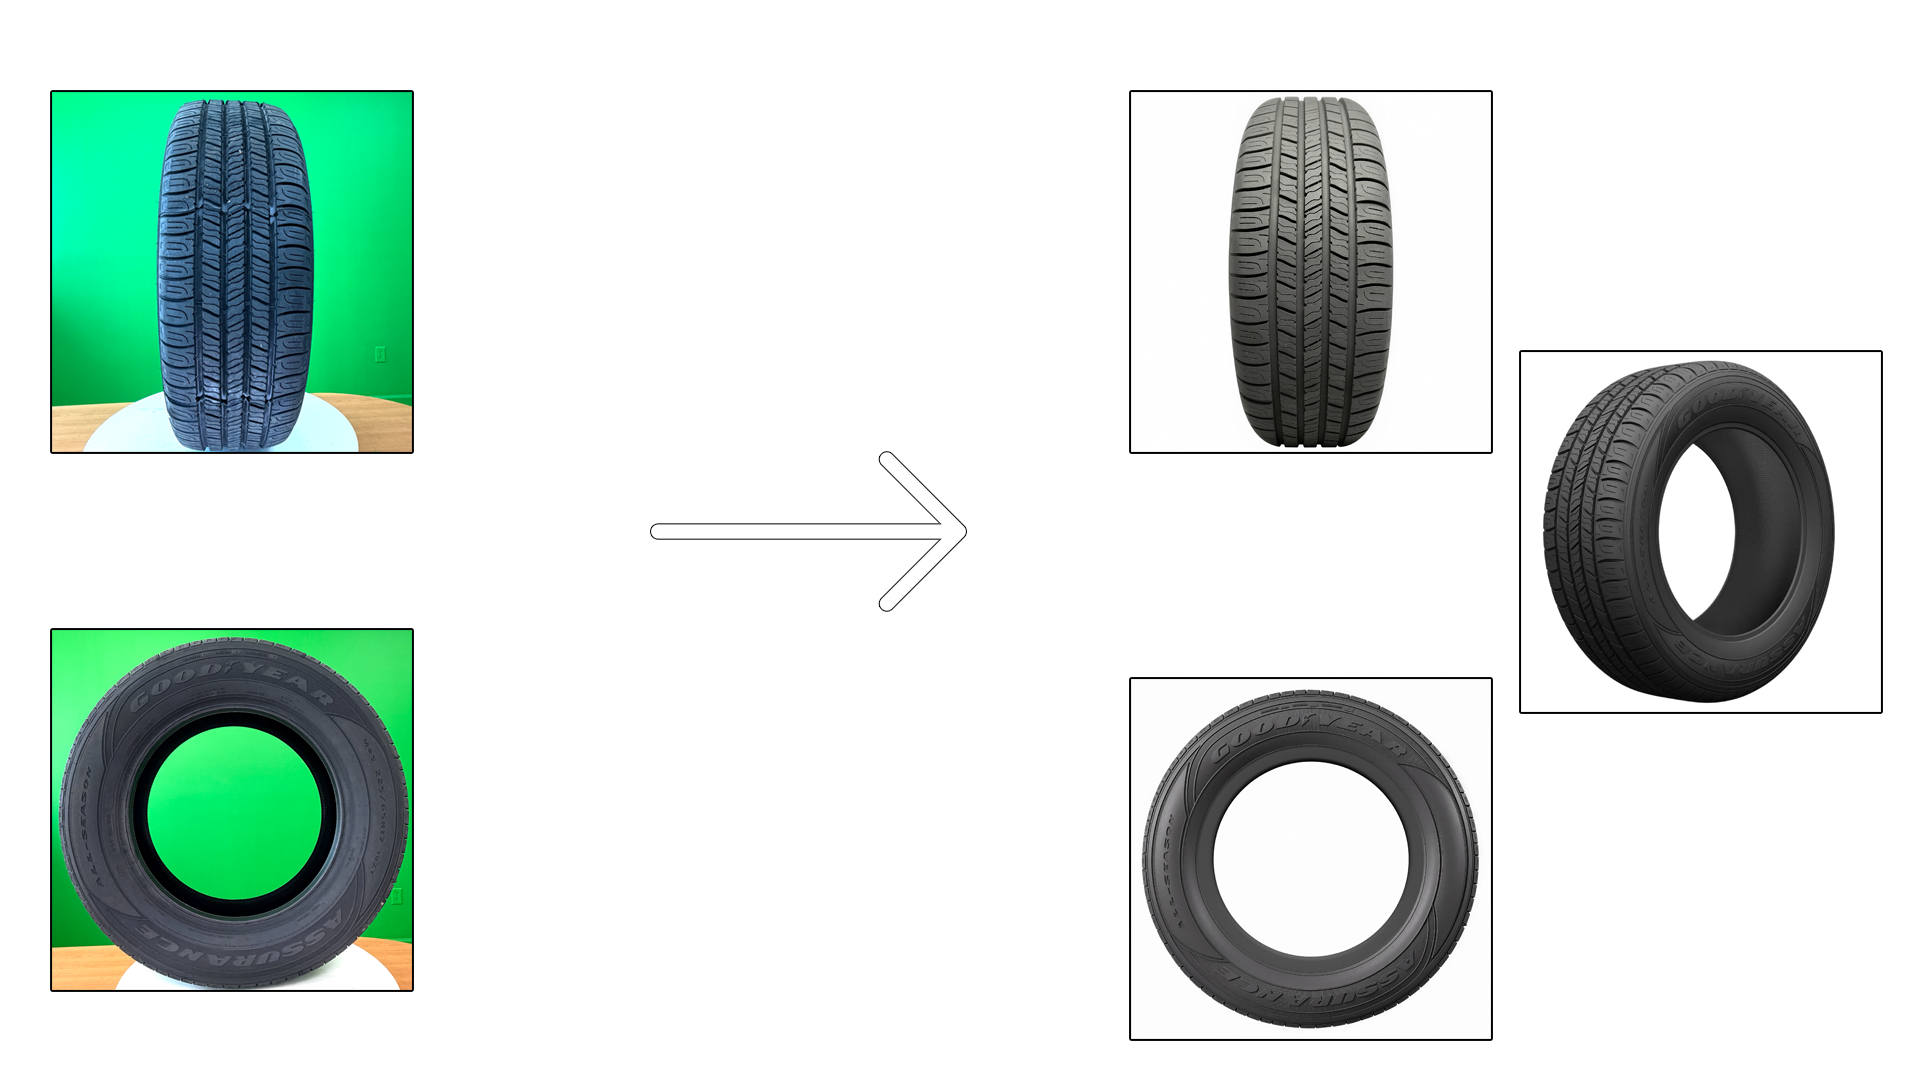
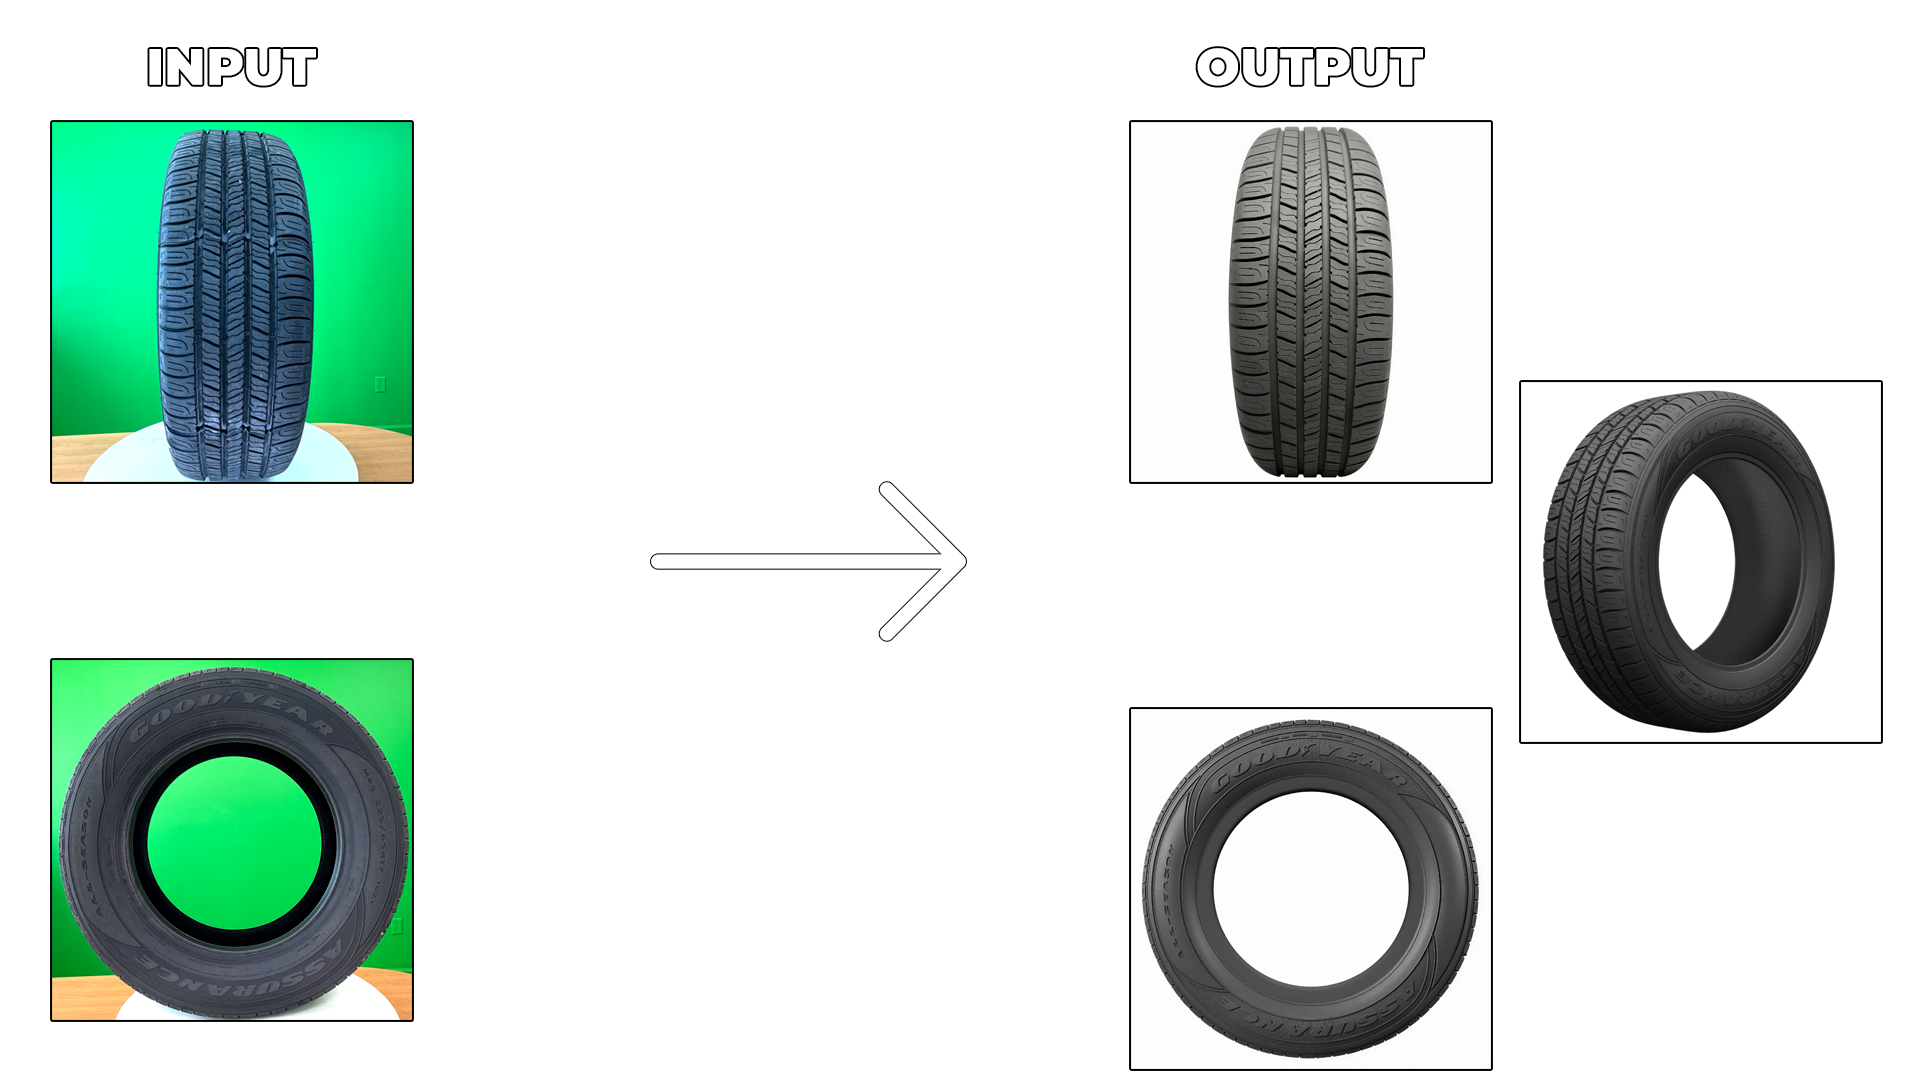
Swap Front's Prepare placeholder for the real screenshot
Also picks up Salman's updated hero diagram (INPUT/OUTPUT labels).

diff --git a/app/data/tire-studio.ts b/app/data/tire-studio.ts
@@ -43,7 +43,7 @@ export const tireStudioTabs: StudioTab[] = [
         id: 'prepare',
         label: 'Prepare',
         icon: 'wash',
-        image: '/images/tire-studio/front-prepare.svg',
+        image: '/images/tire-studio/front-prepare.png',
         text: 'Cleans up the raw photo and gets it ready for editing.'
       },
       {
